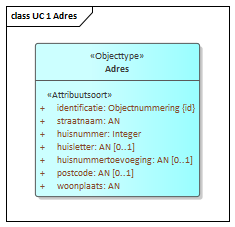
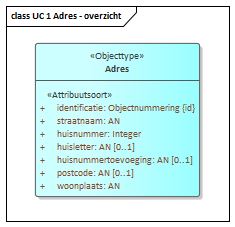
MIMCM-SamenhangendsemantischinformatiemodelSSI-1.0-0-20230101-20230113-115038

Changed region(s): [[0.3277, 0.0308, 0.5957, 0.1233]]

diff --git a/data/WaU-cat.respec.html b/data/WaU-cat.respec.html
@@ -1,8 +1,13 @@
 
 <!DOCTYPE HTML><section id="cat" class="normative">
    <h2>Gegevensdefinitie</h2>
-   <!--MIMCM-SamenhangendsemantischinformatiemodelSSI-1.0-0-20230101-20230113-114846 imvertor 2.0.0--><a class="anchor" id="global_package_Adres"></a><section id="global_package_Adres">
+   <!--MIMCM-SamenhangendsemantischinformatiemodelSSI-1.0-0-20230101-20230113-115038 imvertor 2.0.0--><a class="anchor" id="global_package_Adres"></a><section id="global_package_Adres">
       <h3>Domein   Adres</h3>
+      <section id="EAID_CBD2C868_7490_4e63_BA30_85FA7CB31EC0">
+         <h4>   UC 1 Adres - overzicht</h4>
+         <div class="imageinfo overview"><img src="data/Images/EAID_CBD2C868_7490_4e63_BA30_85FA7CB31EC0.png" usemap="#imagemap-EAID_CBD2C868_7490_4e63_BA30_85FA7CB31EC0" alt="Diagram &#xA;                        &#xA;                     "><map name="imagemap-EAID_CBD2C868_7490_4e63_BA30_85FA7CB31EC0"><area shape="rect" alt="Adres" coords="35,43,200,197" href="#graph_EAID_AA52F510_A161_43b5_81A9_FCB577634959"></map><p><b>UC 1 Adres - overzicht</b></p>
+         </div>
+      </section>
       <section id="">
          <h4>Objecttypen   </h4>
          <a class="anchor" id="graph_EAID_AA52F510_A161_43b5_81A9_FCB577634959"></a><a class="anchor" id="global_class_Adres_Adres"></a><section id="global_class_Adres_Adres">
@@ -945,7 +950,7 @@
 </section>
 <section id="lis" class="normative">
    <h2>Inhoud van waardenlijsten</h2>
-   <!--MIMCM-SamenhangendsemantischinformatiemodelSSI-1.0-0-20230101-20230113-114846 imvertor 2.0.0-->
+   <!--MIMCM-SamenhangendsemantischinformatiemodelSSI-1.0-0-20230101-20230113-115038 imvertor 2.0.0-->
    <section id="">
       <h3>Enumeratie inhoud   </h3><a class="anchor" id="graph_EAID_EE8F5A88_E77C_4eff_A12E_19171EF8BB37"></a><a class="anchor" id="detail_class_Adres_Objecttypecode"></a><section id="detail_class_Adres_Objecttypecode">
          <h4>Enumeratie details  Objecttypecode</h4>
